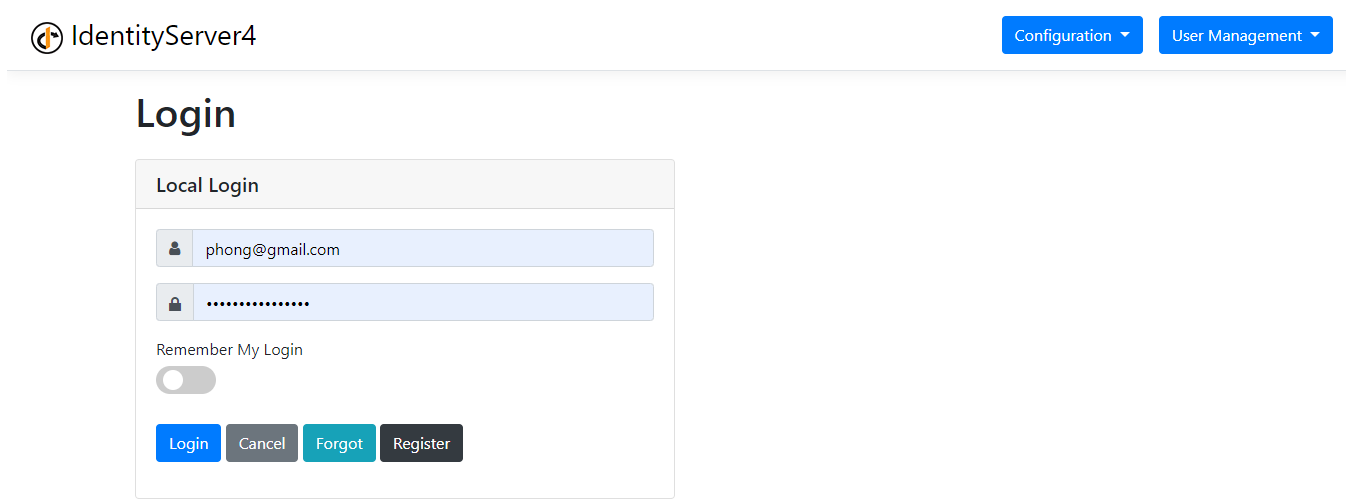
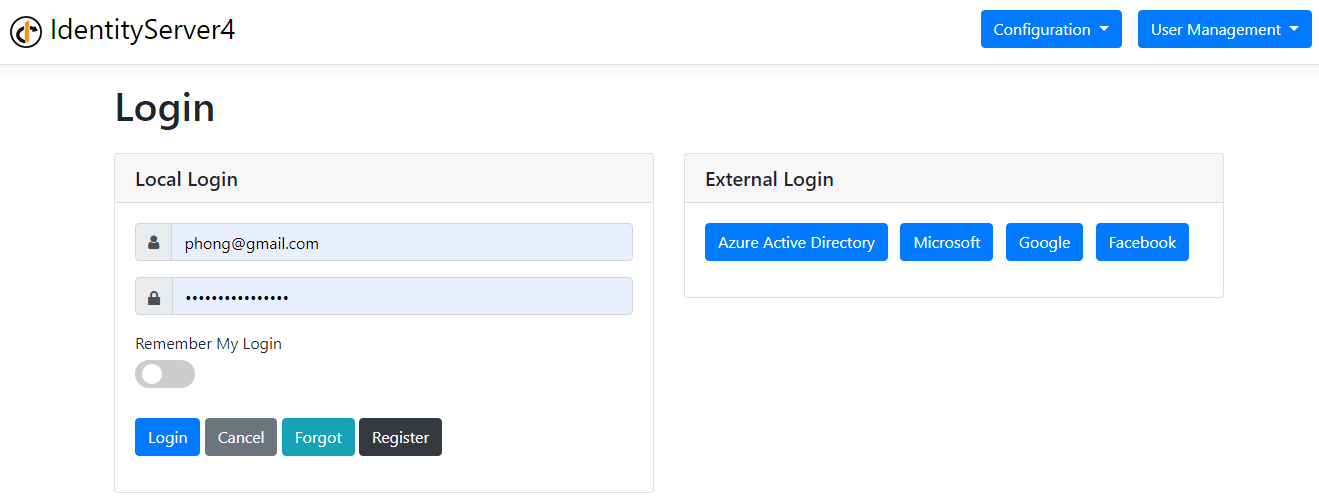
External Login

diff --git a/src/ClassifiedAds.Monolith/ClassifiedAds.IdentityServer/Quickstart/Account/ExternalController.cs b/src/ClassifiedAds.Monolith/ClassifiedAds.IdentityServer/Quickstart/Account/ExternalController.cs
@@ -187,7 +187,7 @@ namespace IdentityServer4.Quickstart.UI
             // try to determine the unique id of the external user (issued by the provider)
             // the most common claim type for that are the sub claim and the NameIdentifier
             // depending on the external provider, some other claim type might be used
-            var emailClaim = externalUser.FindFirst(JwtClaimTypes.Email) ??
+            var emailClaim = externalUser.FindFirst(ClaimTypes.Email) ??
                                 externalUser.FindFirst(JwtClaimTypes.Subject) ??
                                 externalUser.FindFirst(ClaimTypes.NameIdentifier) ??
                                 throw new Exception("Unknown userid");
@@ -201,6 +201,10 @@ namespace IdentityServer4.Quickstart.UI
                 emailClaim = externalUser.FindFirst(ClaimTypes.Email);
             }
             else if (provider == "Google")
+            {
+                emailClaim = externalUser.FindFirst(ClaimTypes.Email);
+            }
+            else if (provider == "Facebook")
             {
                 emailClaim = externalUser.FindFirst(ClaimTypes.Email);
             }

diff --git a/README.md b/README.md
@@ -215,7 +215,7 @@
         "RoutingKey_FileDeleted": "classifiedadds_filedeleted",
         "QueueName_FileUploaded": "classifiedadds_fileuploaded",
         "QueueName_FileDeleted": "classifiedadds_filedeleted"
-      },
+      }
     }
     ```
 
@@ -227,7 +227,7 @@
         "BootstrapServers": "localhost:9092",
         "Topic_FileUploaded": "classifiedadds_fileuploaded",
         "Topic_FileDeleted": "classifiedadds_filedeleted"
-      },
+      }
     }
     ```
 
@@ -239,7 +239,7 @@
         "ConnectionString": "xxx",
         "QueueName_FileUploaded": "classifiedadds-fileuploaded",
         "QueueName_FileDeleted": "classifiedadds-filedeleted"
-      },
+      }
     }
     ```
 
@@ -251,6 +251,34 @@
         "ConnectionString": "xxx",
         "QueueName_FileUploaded": "classifiedadds_fileuploaded",
         "QueueName_FileDeleted": "classifiedadds_filedeleted"
+      }
+    }
+    ```
+	
+  - Use Azure Event Grid:
+    ```js
+    "MessageBroker": {
+      "Provider": "AzureEventGrid",
+      "AzureEventGrid": {
+        "DomainEndpoint": "https://xxx.xxx-1.eventgrid.azure.net/api/events",
+        "DomainKey": "xxxx",
+        "Topic_FileUploaded": "classifiedadds_fileuploaded",
+        "Topic_FileDeleted": "classifiedadds_filedeleted"
+      }
+    }
+    ```
+	
+  - Use Azure Event Hubs:
+    ```js
+    "MessageBroker": {
+      "Provider": "AzureEventHub",
+      "AzureEventHub": {
+        "ConnectionString": "Endpoint=sb://xxx.servicebus.windows.net/;SharedAccessKeyName=xxx;SharedAccessKey=xxx",
+        "Hub_FileUploaded": "classifiedadds_fileuploaded",
+        "Hub_FileDeleted": "classifiedadds_filedeleted",
+        "StorageConnectionString": "DefaultEndpointsProtocol=https;AccountName=xxx;AccountKey=xxx;EndpointSuffix=core.windows.net",
+        "StorageContainerName_FileUploaded": "eventhub-fileuploaded",
+        "StorageContainerName_FileDeleted": "eventhub-filedeleted"
       }
     }
     ```
@@ -348,22 +376,10 @@
     ```js
     "Caching": {
       "InMemory": {
-        "SizeLimit": null
+
       },
       "Distributed": {
-        "Provider": "InMemory",
-        "InMemory": {
-          "SizeLimit": null
-        },
-        "Redis": {
-          "Configuration": "xxx.redis.cache.windows.net:6380,password=xxx,ssl=True,abortConnect=False",
-          "InstanceName": ""
-        },
-        "SqlServer": {
-          "ConnectionString": "Server=.;Database=ClassifiedAds;User Id=sa;Password=sqladmin123!@#",
-          "SchemaName": "dbo",
-          "TableName": "CacheEntries"
-        }
+
       }
     },
     ```
@@ -475,6 +491,37 @@
     "CORS": {
       "AllowedOrigins": [ "https://localhost:44364", "http://host.docker.internal:9003" ]
     }
+    ```
+</details>
+
+<details>
+  <summary><b>External Login</b></summary>
+  
+  - Open [ClassifiedAds.IdentityServer/appsettings.json](/src/ClassifiedAds.Monolith/ClassifiedAds.IdentityServer/appsettings.json) and jump to **ExternalLogin** section:
+    ```js
+    "ExternalLogin": {
+      "AzureActiveDirectory": {
+        "IsEnabled": true,
+        "Authority": "https://login.microsoftonline.com/<Directory (tenant) ID>",
+        "ClientId": "<Application (client) ID",
+        "ClientSecret": "xxx"
+      },
+      "Microsoft": {
+        "IsEnabled": true,
+        "ClientId": "<Application (client) ID",
+        "ClientSecret": "xxx"
+      },
+      "Google": {
+        "IsEnabled": true,
+        "ClientId": "xxx",
+        "ClientSecret": "xxx"
+      },
+      "Facebook": {
+        "IsEnabled": true,
+        "AppId": "xxx",
+        "AppSecret": "xxx"
+      }
+    },
     ```
 </details>
 
